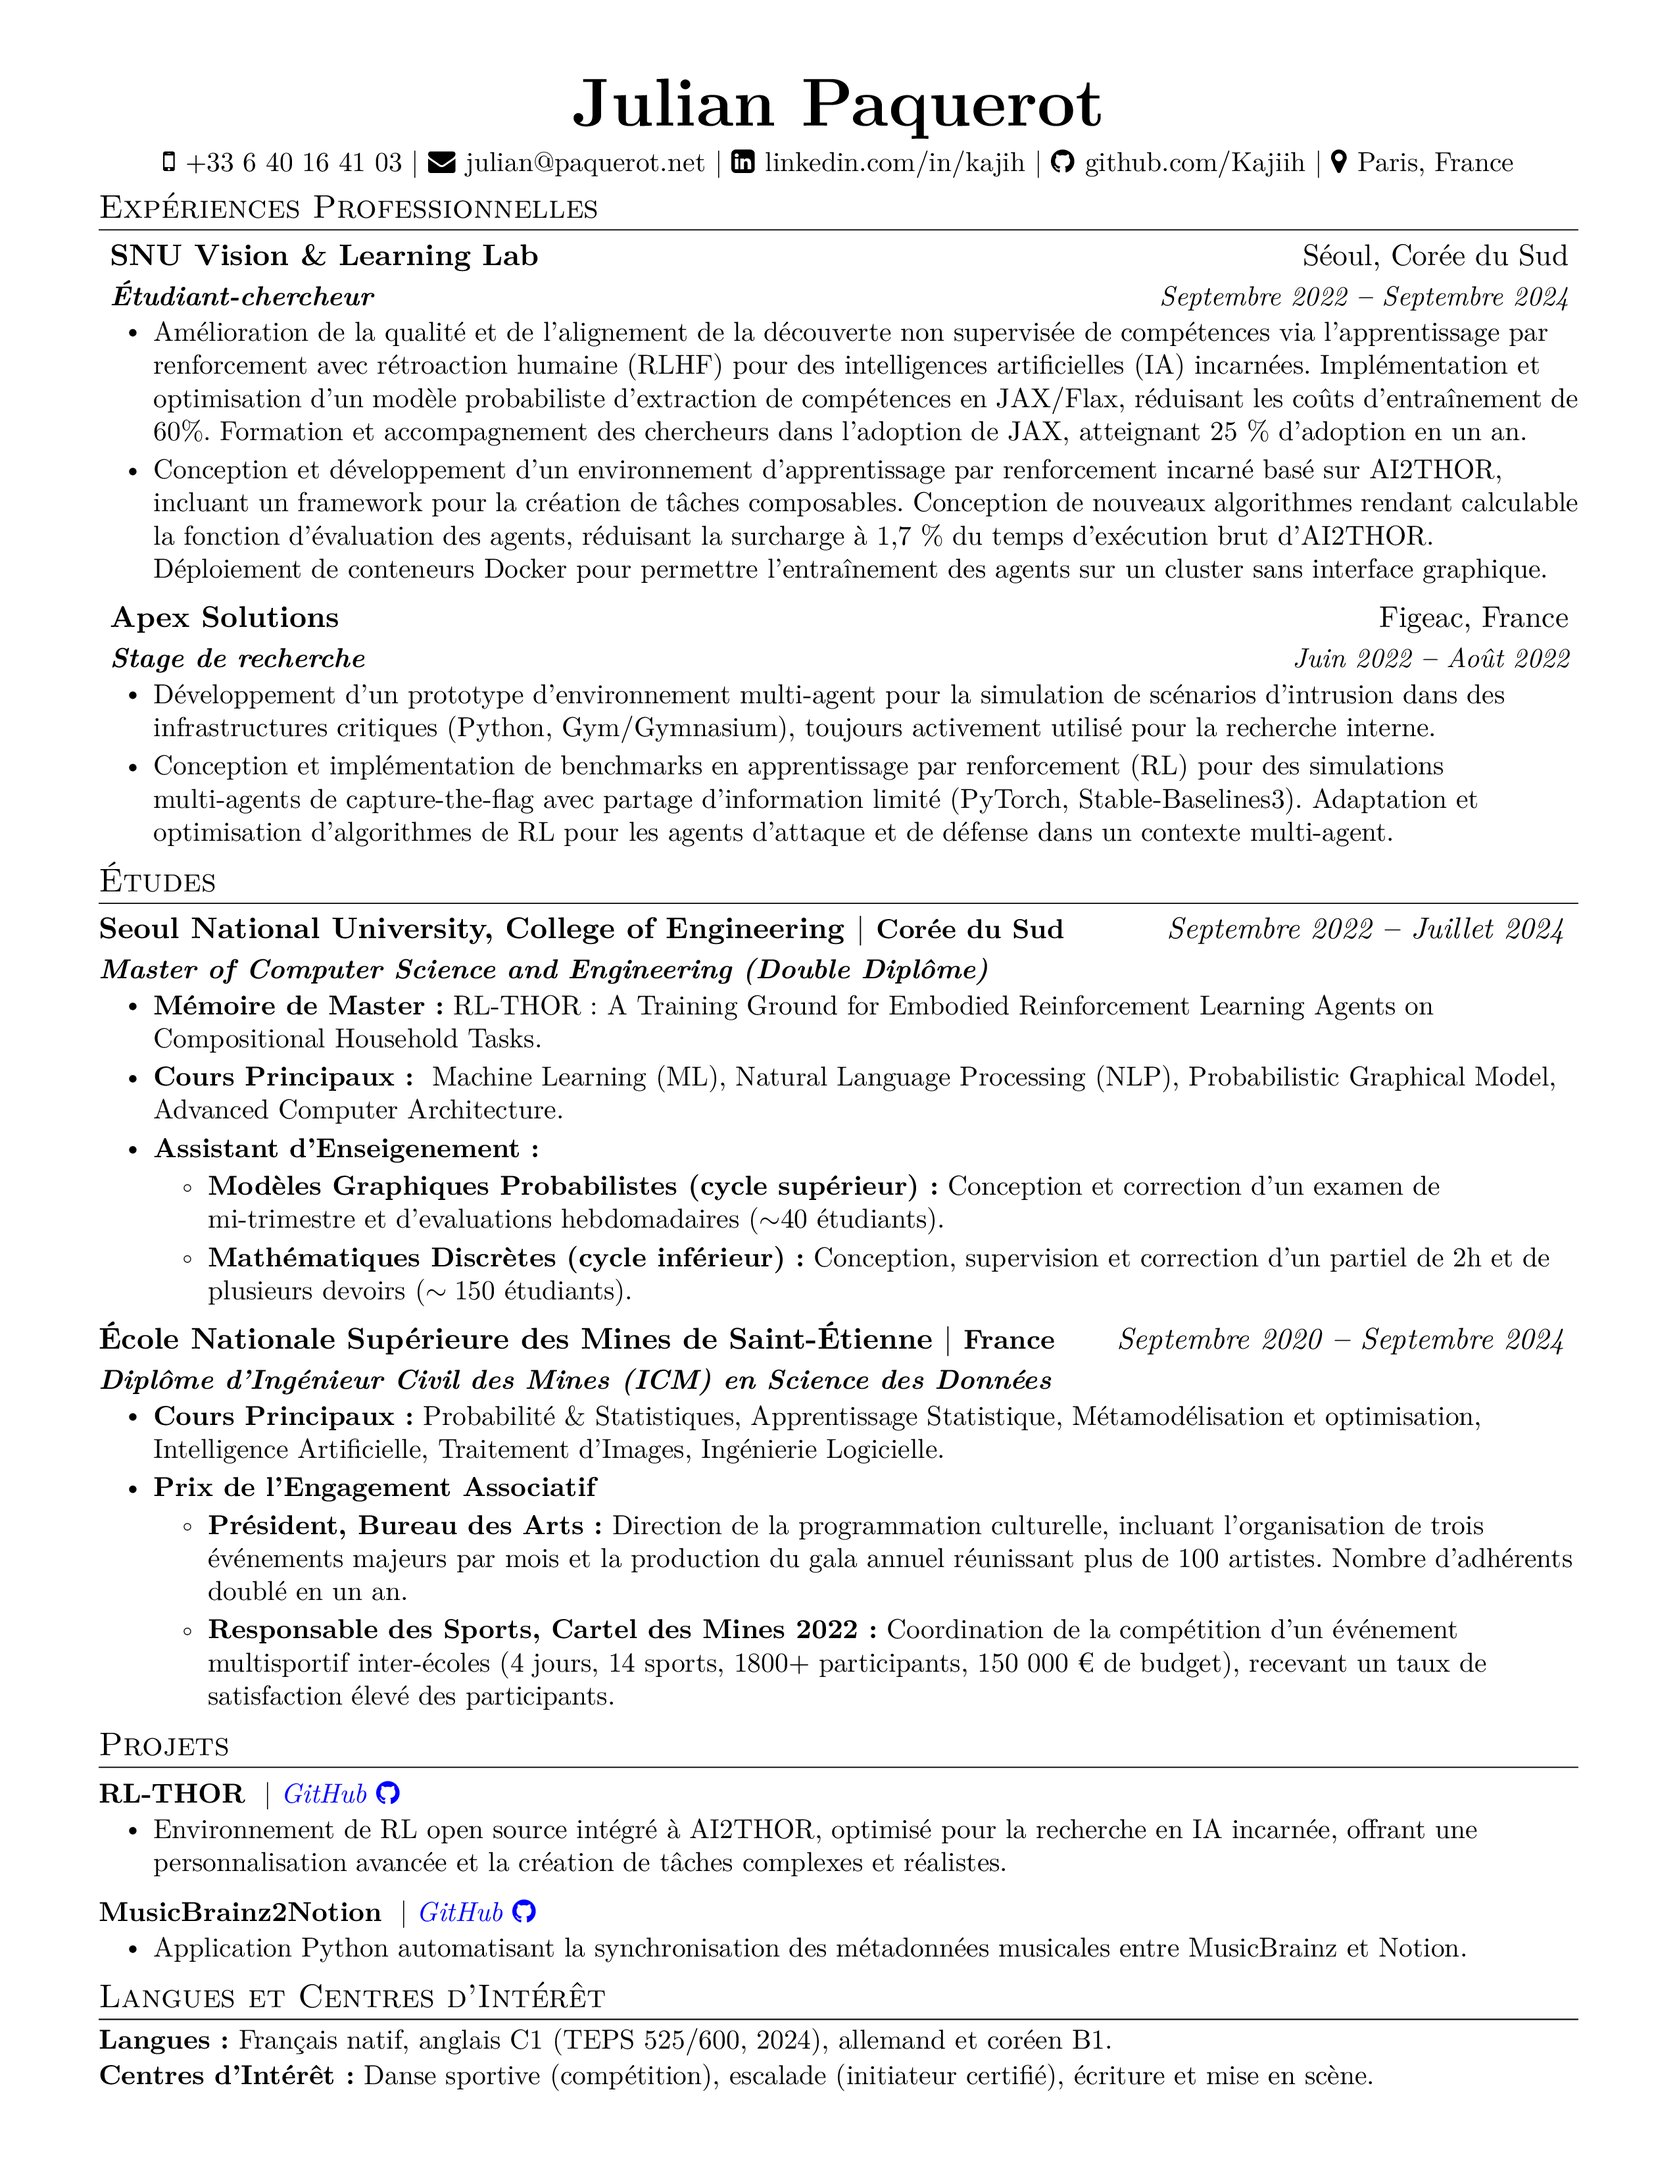
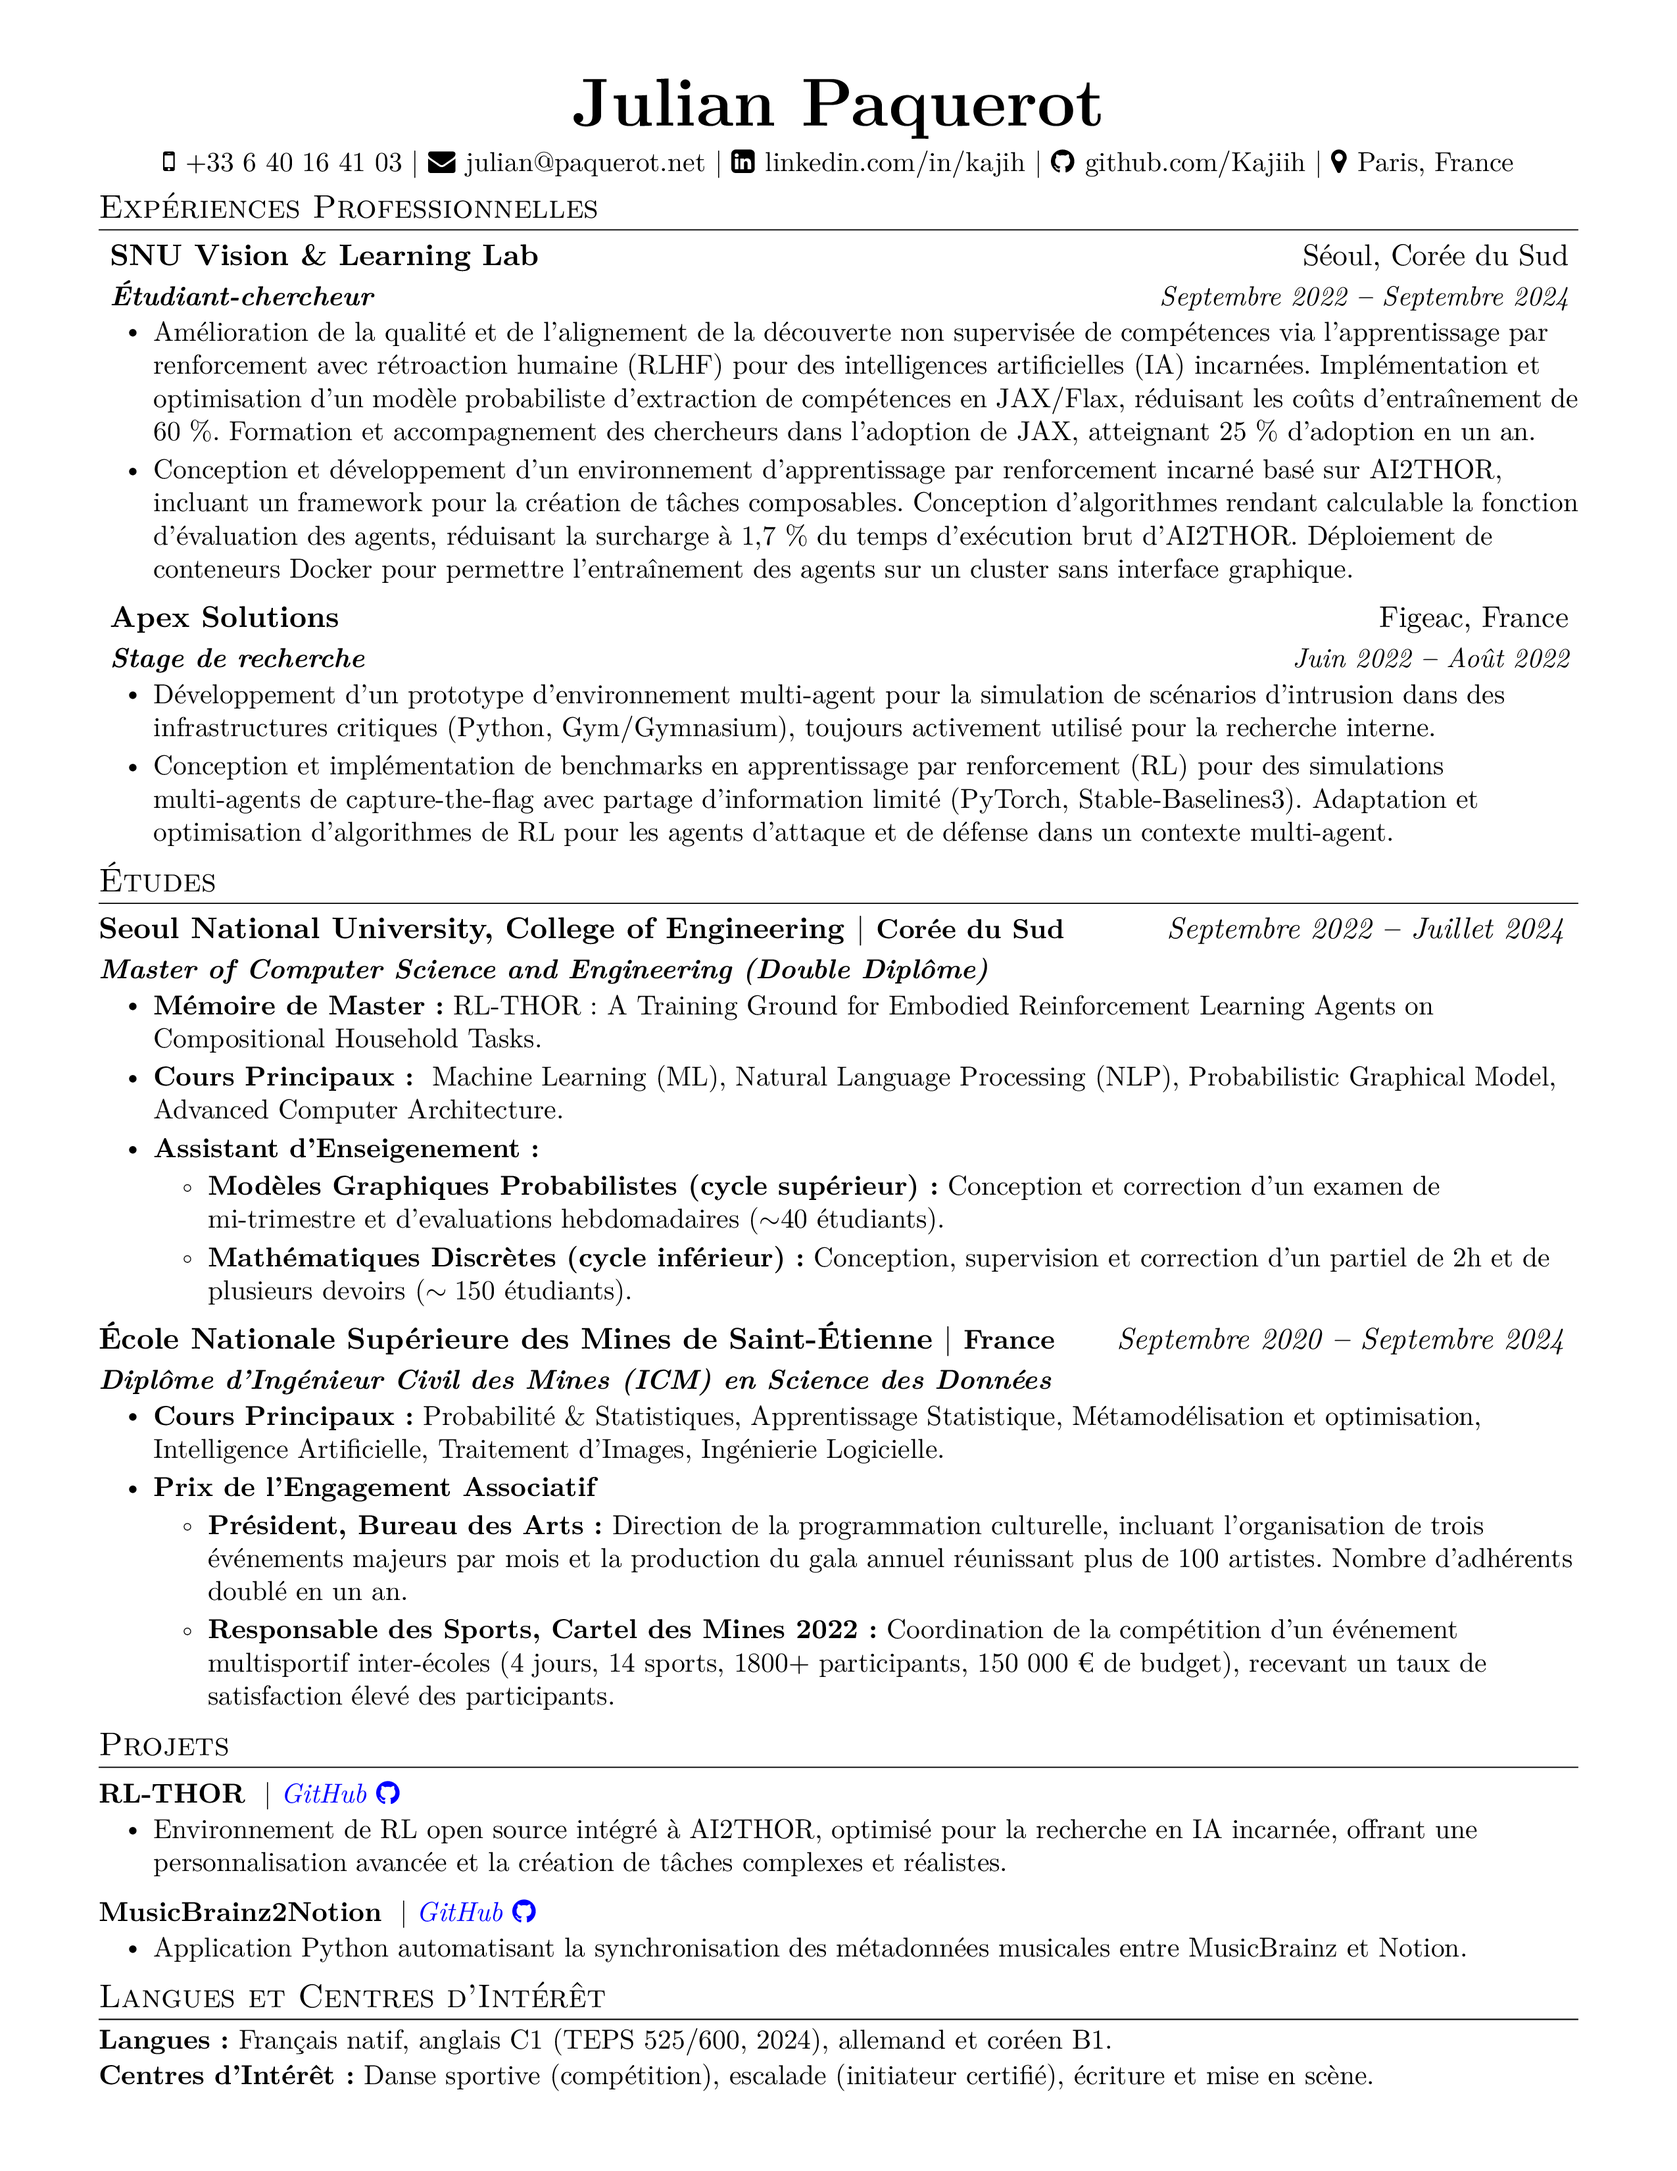
Finish engineering focus english translation

Changed region(s): [[0.0929, 0.1873, 0.9294, 0.2809], [0.2169, 0.1873, 0.5576, 0.2185], [0.1239, 0.1873, 0.1859, 0.2185]]

diff --git a/content/education.tex b/content/education.tex
@@ -17,18 +17,18 @@
 \bulletItem{
     \textbf{\iflanguage{french}{Mémoire de Master}{Master Thesis}:}
     RL-THOR: A Training Ground for Embodied Reinforcement Learning Agents on Compositional Household Tasks. % ChkTeX 13
-    % \ifthenelse{\equal{\resumeFocus}{dev}}{
+    % \ifthenelse{\equal{\resumeFocus}{eng}}{
     % (Advanced embodied RL framework in Python).
     % }{.}
 }
 \bulletItem{
     \textbf{\IfLanguageName{french}{Cours Principaux}{Relevant Courses}:}
-    \ifthenelse{\equal{\resumeFocus}{dev}}{
+    \ifthenelse{\equal{\resumeFocus}{eng}}{%
         Advanced Computer Architecture,
         Machine Learning (ML),
         Natural Language Processing (NLP),
         Probabilistic Graphical Model.
-    }{
+    }{%
         Machine Learning (ML),
         Natural Language Processing (NLP),
         Probabilistic Graphical Model,
@@ -79,9 +79,9 @@
 \bulletItem{
     \iflanguage{french}{
         \textbf{Cours Principaux:}
-        \ifthenelse{\equal{\resumeFocus}{dev}}{%
+        \ifthenelse{\equal{\resumeFocus}{eng}}{%
             % Algorithmes \& Structure de Données,
-            Ingénierie Logicielle,
+            Pratiques d'Ingénierie Logicielle,
             Réseau,
             Probabilité \& Statistiques,
             Intelligence Artificielle,
@@ -102,16 +102,27 @@
         }
     }{
         \textbf{Relevant Courses:}
-        Probability \& Statistics,
-        Statistical learning,
-        % Machine learning,
-        Metamodeling and Optimization,
-        Artificial Intelligence,
-        Image Processing,
-        Software Engineering.
-        % Networks
-        % Quantum Computing,
-        % Experimental methods.
+        \ifthenelse{\equal{\resumeFocus}{eng}}{%
+            % Algorithms \& Data Structures,
+            Software Engineering Practices,
+            Network,
+            Probability \& Statistics,
+            Artificial Intelligence,
+            % Machine learning,
+            Statistical learning,
+            Experimental methods.
+        }{%
+            Probability \& Statistics,
+            Statistical learning,
+            % Machine learning,
+            Metamodeling and Optimization,
+            Artificial Intelligence,
+            Image Processing,
+            Software Engineering.
+            % Network
+            % Quantum Computing,
+            % Experimental methods.
+        }
     }
 }
 \bulletItem{

diff --git a/content/projects.tex b/content/projects.tex
@@ -1,7 +1,7 @@
 % Projects section
 \resumeProjectHeading{%
     \textbf{RL-THOR}
-    \ifthenelse{\equal{\resumeFocus}{dev}}{--- Python, PyTorch, Gymnasium}{}
+    \ifthenelse{\equal{\resumeFocus}{eng}}{--- Python, PyTorch, Gymnasium}{}
     \(|\)
     \emph{\bref{https://github.com/Kajiih/rl_thor}{GitHub \faGithub}}
 }{}
@@ -19,7 +19,7 @@
 
 \resumeProjectHeading{%
     \textbf{MusicBrainz2Notion}
-    \ifthenelse{\equal{\resumeFocus}{dev}}{--- Python}{}
+    \ifthenelse{\equal{\resumeFocus}{eng}}{--- Python}{}
     \(|\)
     \emph{\bref{https://github.com/Kajiih/MusicBrainz2Notion}{GitHub \faGithub}}
 }{}
